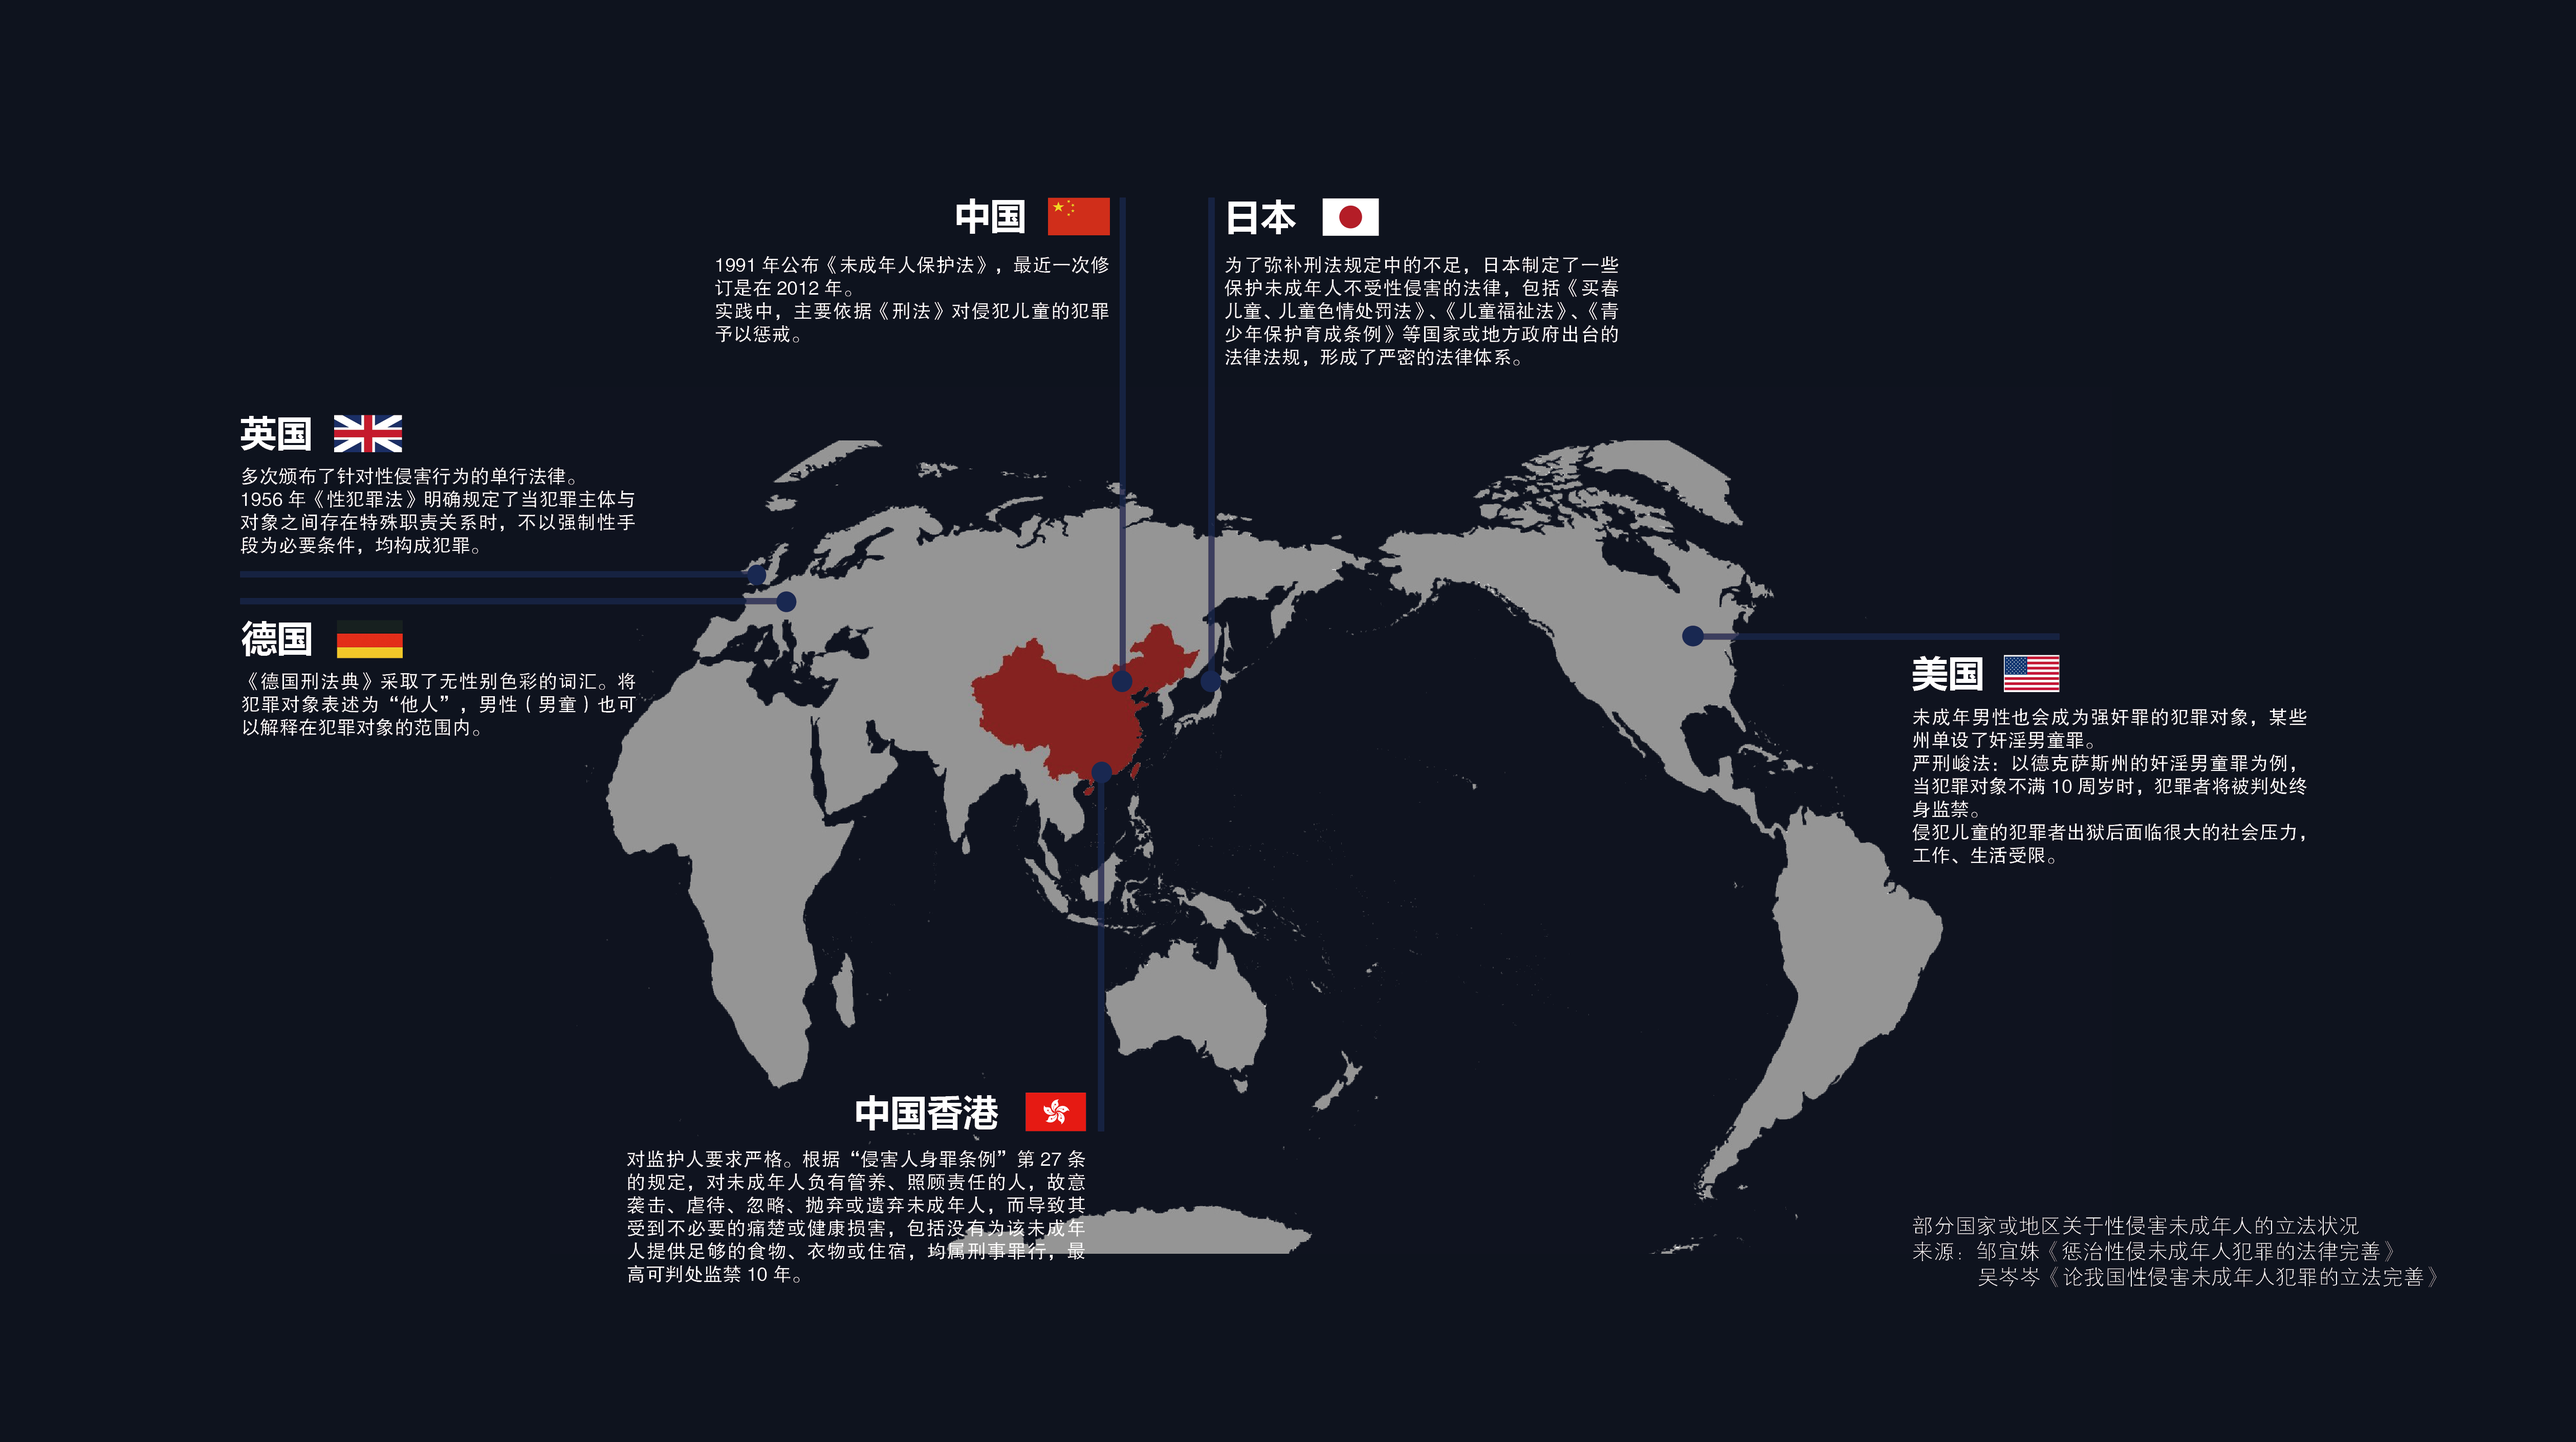
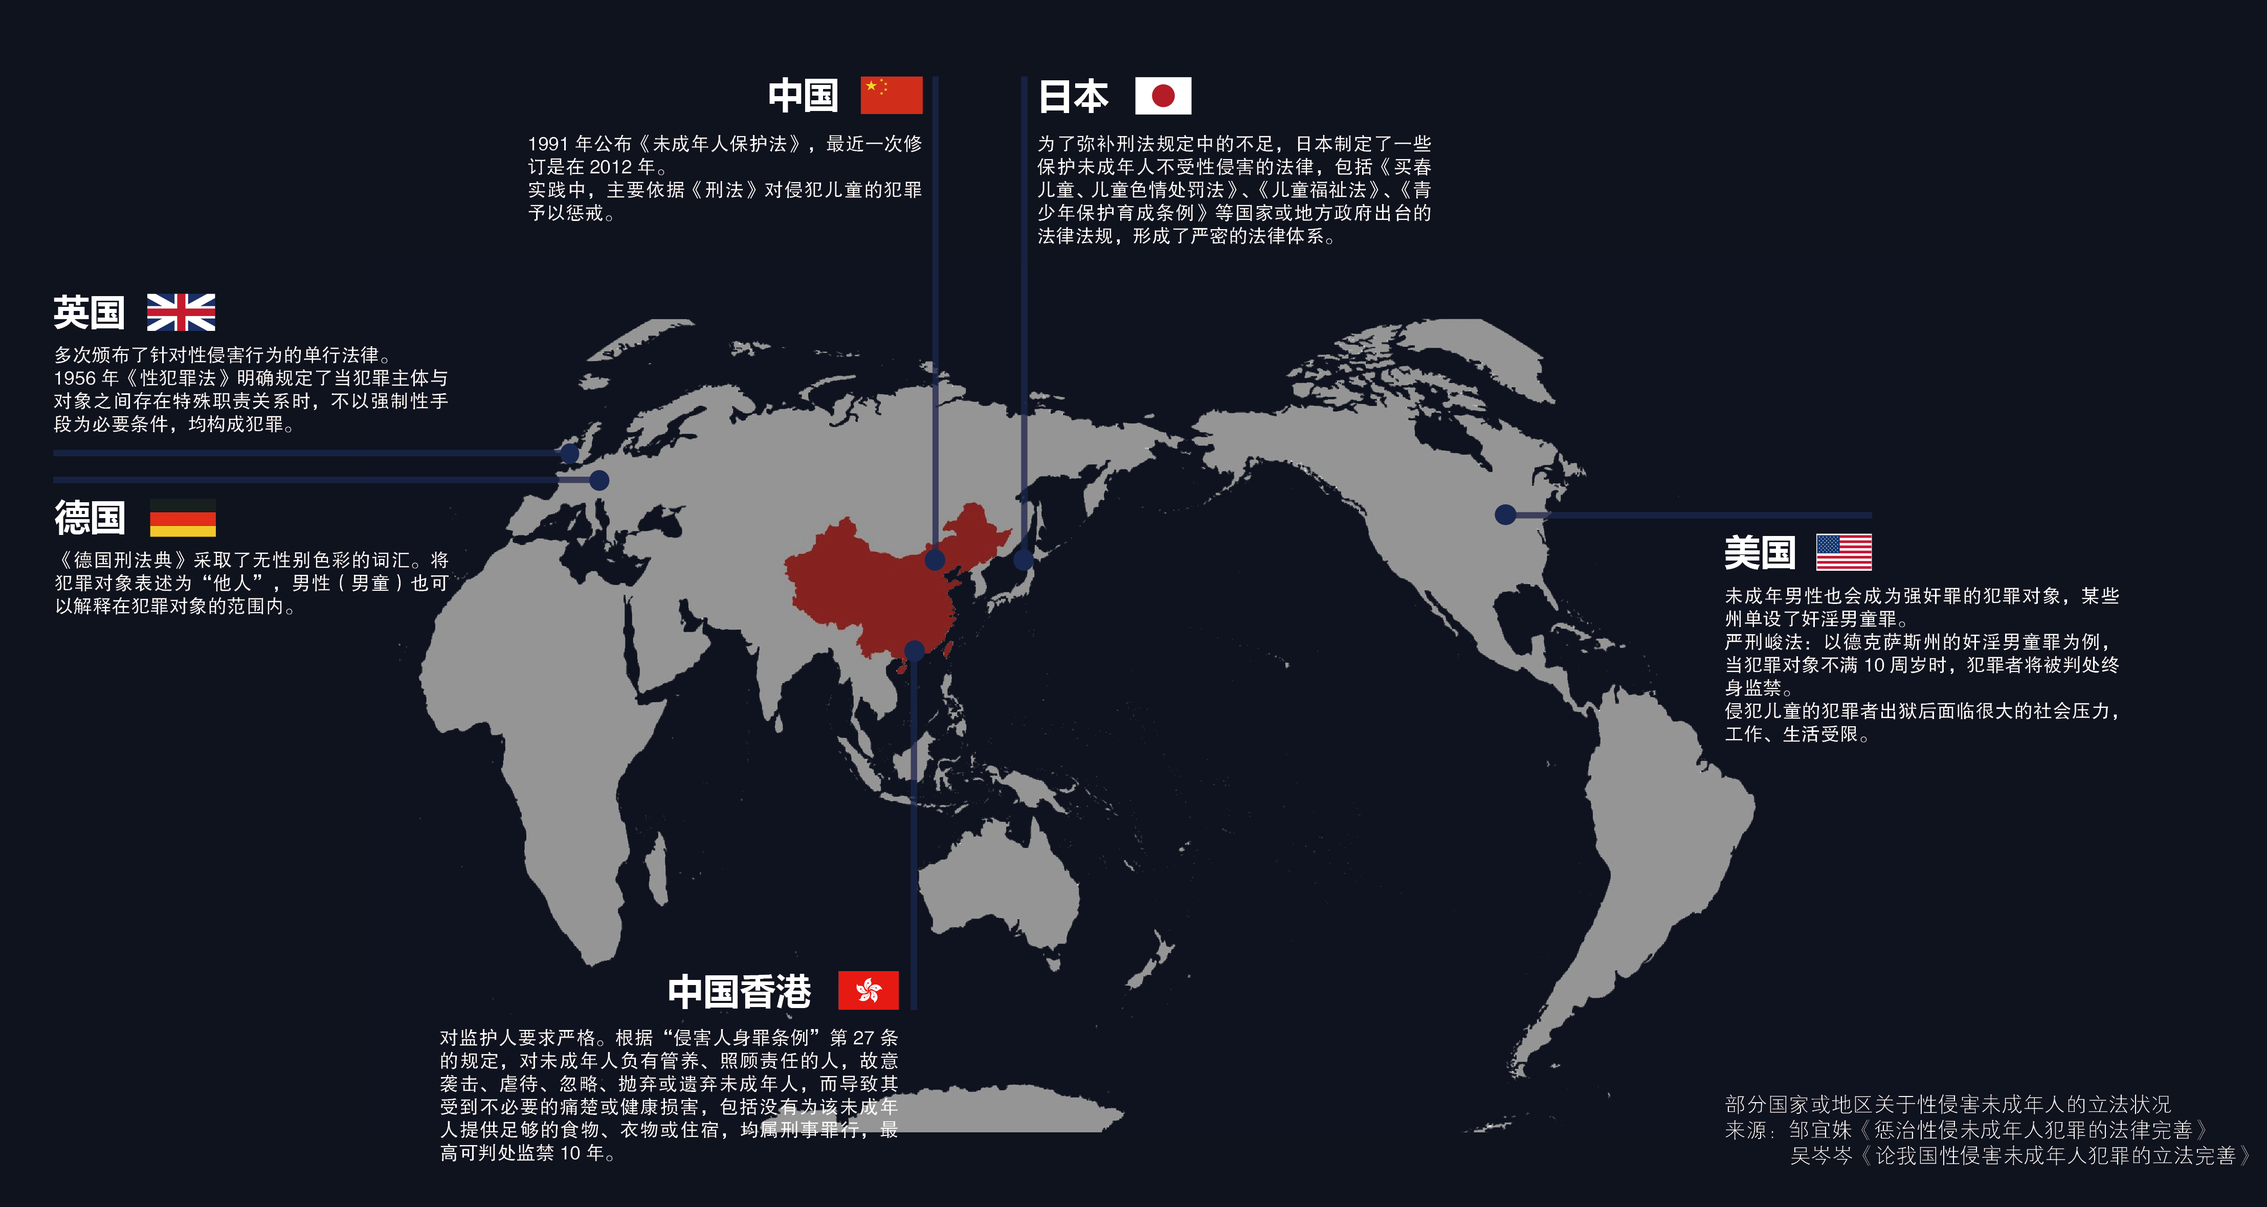
modify img

Changed region(s): [[0.0, 0.0619, 0.9341, 0.9589], [0.7473, 0.8352, 0.9653, 0.9589], [0.5916, 0.464, 0.6227, 0.4949]]

diff --git a/index.html b/index.html
@@ -78,7 +78,7 @@
 
     <div id="map-chart">
         <div class="map-chart-img">
-            <img src="./img/map.png" style=" width: 1200px;">
+            <img src="./img/map.png">
         </div>
         <div class="map-chart-text">
             <p>中国法律对侵害未成年人行为的打击力度是否需要提升？</p>
@@ -91,16 +91,20 @@
 
     <div class="footer">
         <div class="footer-wrapper">
-            <p>作者：郑璇真 李曜宇 黎若楠</p>
-            <p>指导老师：黄志敏 方洁 苏颢云 霍默静 陈皓</p>
-            <p>联系方式：https://github.com/Sai0514</p>
-            <p>数据来源：</p>
-            <ul>
-                <li>中华人民共和国最高人民检察院</li>
-                <li>中国裁判文书网</li>
-                <li>OpenLaw</li>
-                <li>无讼案例网</li>
-            </ul>
+            <div>
+                <p>作者：郑璇真 李曜宇 黎若楠</p>
+                <p>指导老师：黄志敏 方洁 苏颢云 霍默静 陈皓</p>
+                <p>联系方式：https://github.com/Sai0514</p>
+                <p>感谢中国人民大学新闻学院</p>
+                <p>感谢数可视有限公司</p>
+            </div>
+            <div>
+                <p>数据来源：</p>
+                <p>中华人民共和国最高人民检察院</p>
+                <p>中国裁判文书网</p>
+                <p>OpenLaw</p>
+                <p>无讼案例网</p>
+            </div>
         </div>
     </div>
 

diff --git a/css/style.css b/css/style.css
@@ -303,6 +303,10 @@ li {
     margin: 0 auto;
 }
 
+#map-chart-img {
+    width: 1400px;
+}
+
 #map-chart .map-chart-text {
     width: 90%;
     margin: 0 auto;
@@ -394,7 +398,7 @@ li {
 
 .footer {
     width: 100%;
-    height: 275px;
+    height: 225px;
     background-color: rgba(0, 0, 0, .3);
     margin-top: 60px;
     display: flex;
@@ -402,9 +406,9 @@ li {
 }
 
 .footer-wrapper {
-    width: 325px;
-    display: inline-block;
-    margin: 0 auto;
+    width: 50%;
+    display: flex;
+    justify-content: space-between;
 }
 
 ul,
